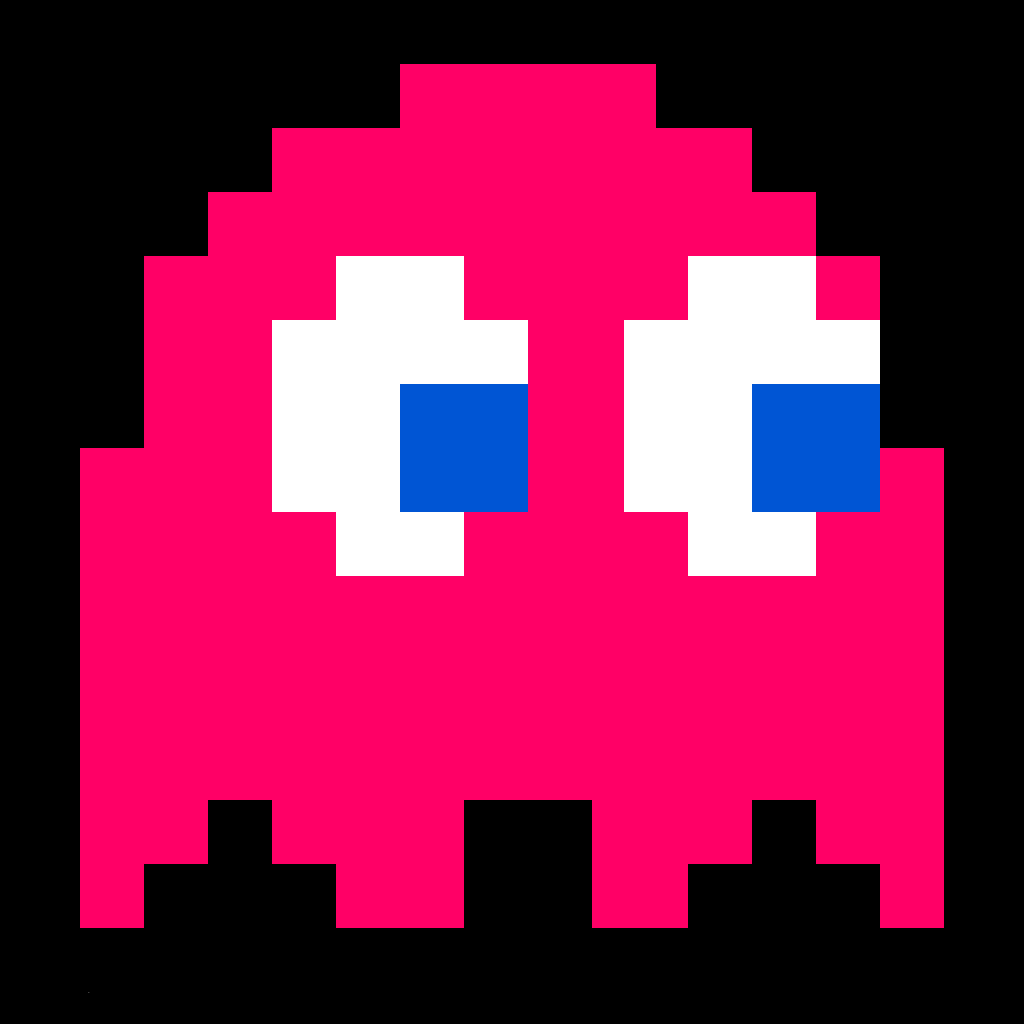
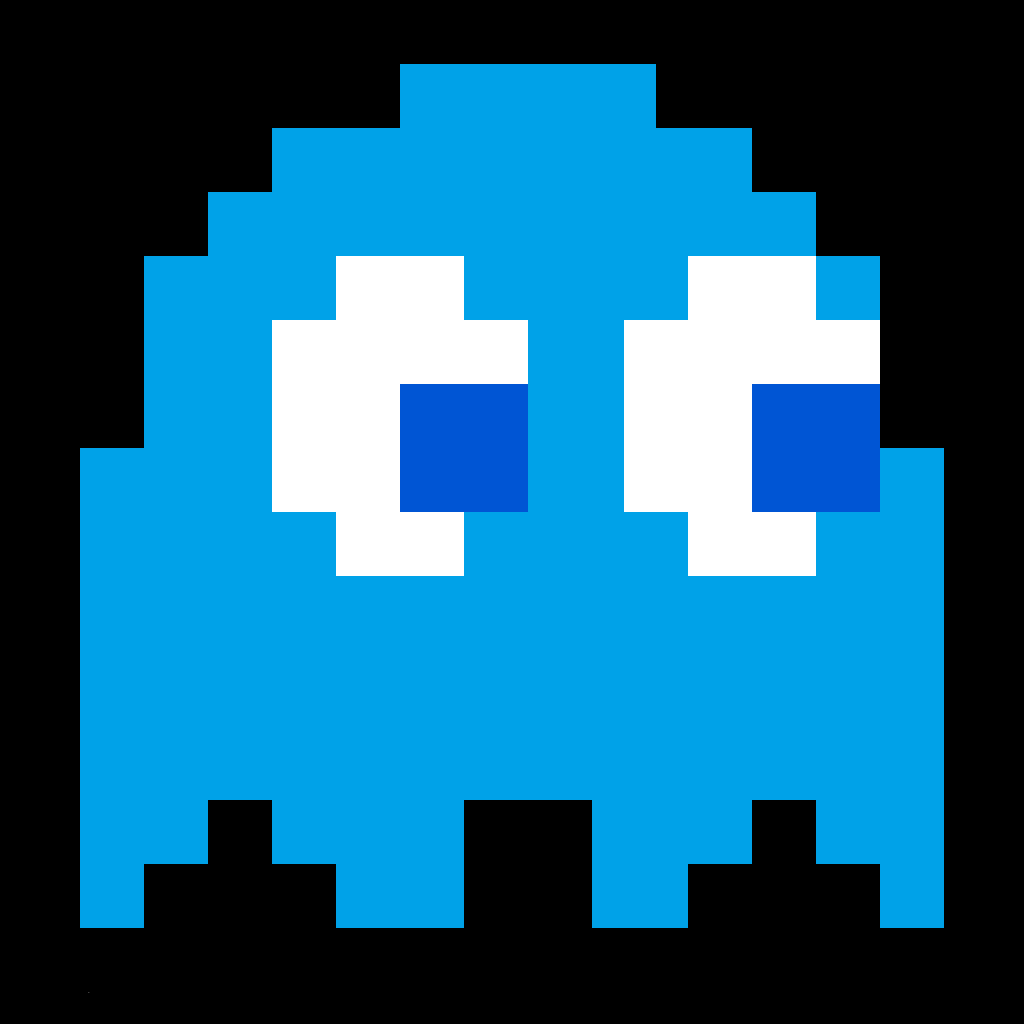
quand on s'éclate avec les héritages

diff --git a/src/com/solarus/Fantome.java b/src/com/solarus/Fantome.java
@@ -6,7 +6,6 @@ public class Fantome extends Entity{
 
     private boolean isInvicible = true;
     private Color couleur;
-    private int px, py;
     private int direction = 4; // 12 = Nord, 3 = Est, 6 = Sud, 9 = Ouest
     private int degre = 0;
 
@@ -15,18 +14,16 @@ public class Fantome extends Entity{
     }
 
     public Fantome(Color couleur, int abcisse, int ordonnee) {
-        super(abcisse,ordonnee);
+        super(abcisse, ordonnee);
         //init fantome, on peut les placer sur des endroits random dans la map
         this.couleur = couleur;
-        this.px = abcisse;
-        this.py = ordonnee;
     }
 
 
     public void deplacement(){
         //
         boolean[] directionpossibles = this.directionpossibles();
-        System.out.println("Fantome X = "+ this.px+ "\t Y = "+ this.py);
+        System.out.println("Fantome X = "+ this.getX()+ "\t Y = " + this.getY());
 
         if (this.emplacementEstUneIntersection(directionpossibles)) { //randomisation de la direction à une intersect
             System.out.println(this.emplacementEstUneIntersection(directionpossibles));
@@ -34,19 +31,19 @@ public class Fantome extends Entity{
             while (!mvt) {
             //TODO : ajouter une condition de non-retour
                 double random = Math.random() * 4;
-                if (random < 1 && directionpossibles[0]) {
+                if (random < 1 && directionpossibles[0] && direction != 2) {
                     direction = 8;//NORD
                     degre = 90;
                     mvt = true;
-                } else if (random >= 1 && random < 2 && directionpossibles[1]) {
+                } else if (random >= 1 && random < 2 && directionpossibles[1]&& direction != 4) {
                     direction = 6;//EST
                     degre = 0;
                     mvt = true;
-                } else if (random >= 2 && random < 3 && directionpossibles[2]) {
+                } else if (random >= 2 && random < 3 && directionpossibles[2]&& direction != 8) {
                     direction = 2;//SUD
                     degre = 270;
                     mvt = true;
-                } else if (random >= 3 && directionpossibles[3]) {
+                } else if (random >= 3 && directionpossibles[3]&& direction != 6) {
                     direction = 4;//OUEST
                     degre = 180;
                     mvt = true;
@@ -64,16 +61,16 @@ public class Fantome extends Entity{
         Map pacmanMap = new Map();
         boolean [] directions = {true, true, true, true};
         int [][] temp = pacmanMap.getLabyrinthe();
-        if(temp[this.py+1][this.px]==0){ //nord
+        if(temp[this.getY() +1][this.getX()]==0){ //nord
             directions[0] = false;
         }
-        if(temp[this.py][this.px+1]==0){ //est
+        if(temp[this.getY()][this.getX()+1]==0){ //est
             directions[1] = false;
         }
-        if(temp[this.py-1][this.px]==0){ //sud
+        if(temp[this.getY() -1][this.getX()]==0){ //sud
             directions[2] = false;
         }
-        if(temp[this.py][this.px-1]==0){ //ouest
+        if(temp[this.getY()][this.getX()-1]==0){ //ouest
             directions[3] = false;
         }
         System.out.println(directions[0]+" "+directions[1]+" "+directions[2]+" "+directions[3]+" ");

diff --git a/src/com/solarus/Main.java b/src/com/solarus/Main.java
@@ -22,7 +22,8 @@ public class Main {
         pacmanMap.ecranDeDemarrage();
 
         StdDraw.picture(joueur1.getX(), joueur1.getY(), "pacman2.jpg", 0.9, 0.9, 180);
-        StdDraw.picture(FantomeBleu.getX(), FantomeBleu.getY(), "pinkie.jpg", 0.9, 0.9, 180);
+        StdDraw.picture(FantomeBleu.getX(), FantomeBleu.getY(), "bleue.png", 0.9, 0.9, 180);
+        StdDraw.picture(FantomeRose.getX(), FantomeRose.getY(), "pinkie.jpg", 0.9, 0.9, 180);
 
         System.out.print("X =" + joueur1.getX() + " Y =" + joueur1.getX());
         StdDraw.enableDoubleBuffering();
@@ -56,6 +57,7 @@ public class Main {
             joueur1.mouvement(direction);
             joueur1.transfertBord();
             FantomeBleu.deplacement();
+            FantomeBleu.transfertBord();
             StdDraw.picture(joueur1.getX(), joueur1.getY(), "pacman2.jpg", 0.9, 0.9, degre);
             StdDraw.picture(FantomeBleu.getX(), FantomeBleu.getY(), "pinkie.jpg", 0.9, 0.9, FantomeBleu.getDegre());
 
